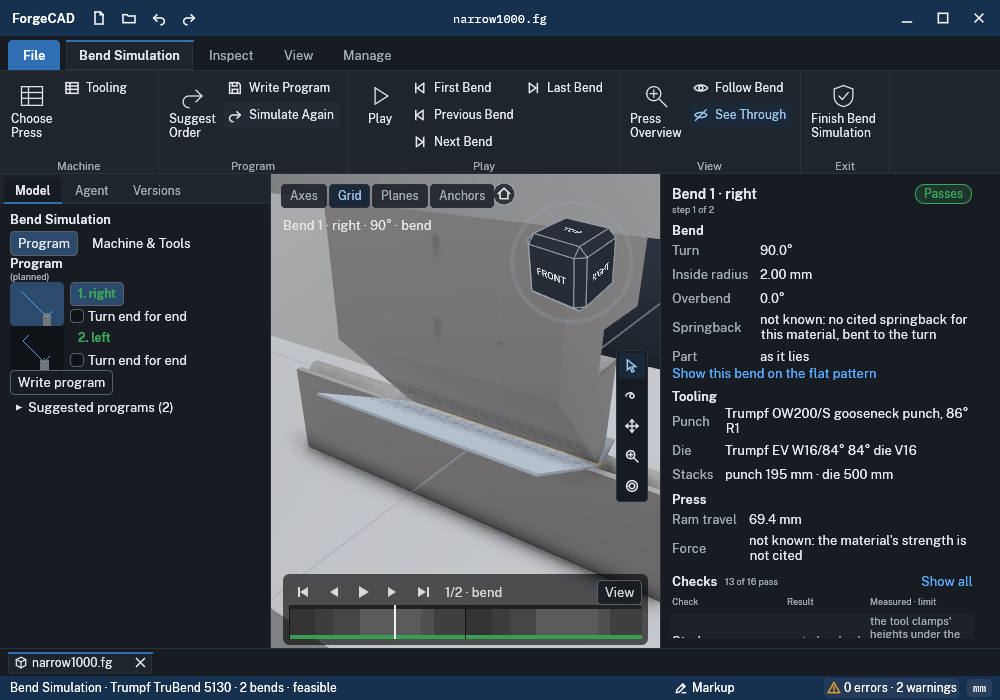
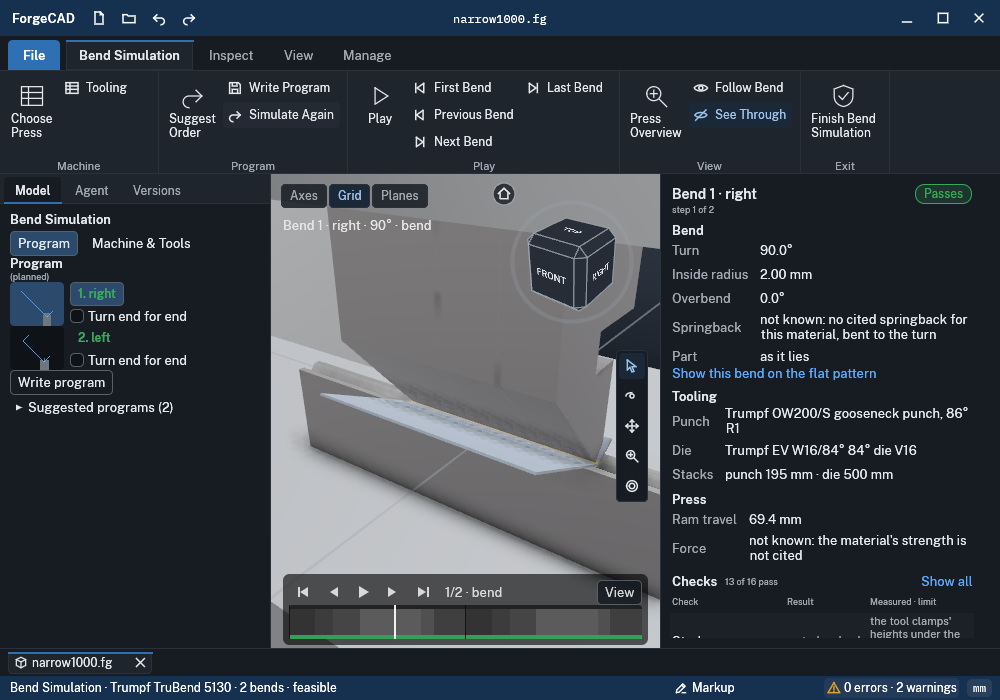
view chips (Axes, Grid, Planes, Anchors): as many as fit left of the view cube's home button; a narrow view drops the rest (each stays in Settings) (UX-LEAD P2, as CAM-UI did); test at 1000x700
Claude-Session: https://claude.ai/code/session_01WJtawvw7eU93rVnY2Eejbc

diff --git a/interface/forge-render/src/shell/mod.rs b/interface/forge-render/src/shell/mod.rs
@@ -566,6 +566,11 @@ impl Shell {
         let o = self.overlays();
         let mut flip = None;
         let mut places = Vec::new();
+        // as many chips as fit left of the view cube's home button: a narrow view (an
+        // environment's docked panels either side) drops the rest; each stays in Settings
+        let limit = self.cube_place.map_or(self.view_rect.right() - 10.0, |c| {
+            self.view_rect.left() + c.at.0 / c.scale.max(1e-3) - 6.0
+        });
         let r = egui::Area::new(egui::Id::unique("view-toolbar"))
             .fixed_pos(at)
             .order(egui::Order::Middle)
@@ -575,6 +580,9 @@ impl Shell {
                     for (name, word) in OVERLAY_SWITCHES {
                         let on = o.get(name);
                         let g = ui.fonts_mut(|f| f.layout_no_wrap(word.to_string(), sans(12.0), t.ink));
+                        if ui.cursor().left() + g.size().x + 18.0 > limit {
+                            break;
+                        }
                         let (r, resp) = ui.allocate_exact_size(vec2(g.size().x + 18.0, 24.0), Sense::click());
                         resp.widget_info(|| egui::WidgetInfo::selected(egui::Role::CheckBox, true, on, word));
                         let p = ui.painter();

diff --git a/interface/forge-render/tests/bendsim_env.rs b/interface/forge-render/tests/bendsim_env.rs
@@ -430,4 +430,13 @@ fn a_narrow_view_gets_a_compact_bar() {
     );
     let bar = h.gui.shell.place("env:bendsim:timeline").expect("the bar");
     assert!(bar.height() < 80.0, "one row and the track: {bar:?}");
+    // the view's chips stop short of the cube's home button (the rest stay in Settings)
+    let cube = h.gui.shell.cube_place.expect("the cube");
+    let home = view.left() + cube.at.0 / cube.scale;
+    for name in ["axes", "grid", "planes", "anchors"] {
+        if let Some(r) = h.gui.shell.place(&format!("view:{name}")) {
+            assert!(r.right() < home, "{name} chip {r:?} reaches the home button at {home}");
+        }
+    }
+    assert!(h.gui.shell.place("view:axes").is_some(), "the first chips still shown");
 }
